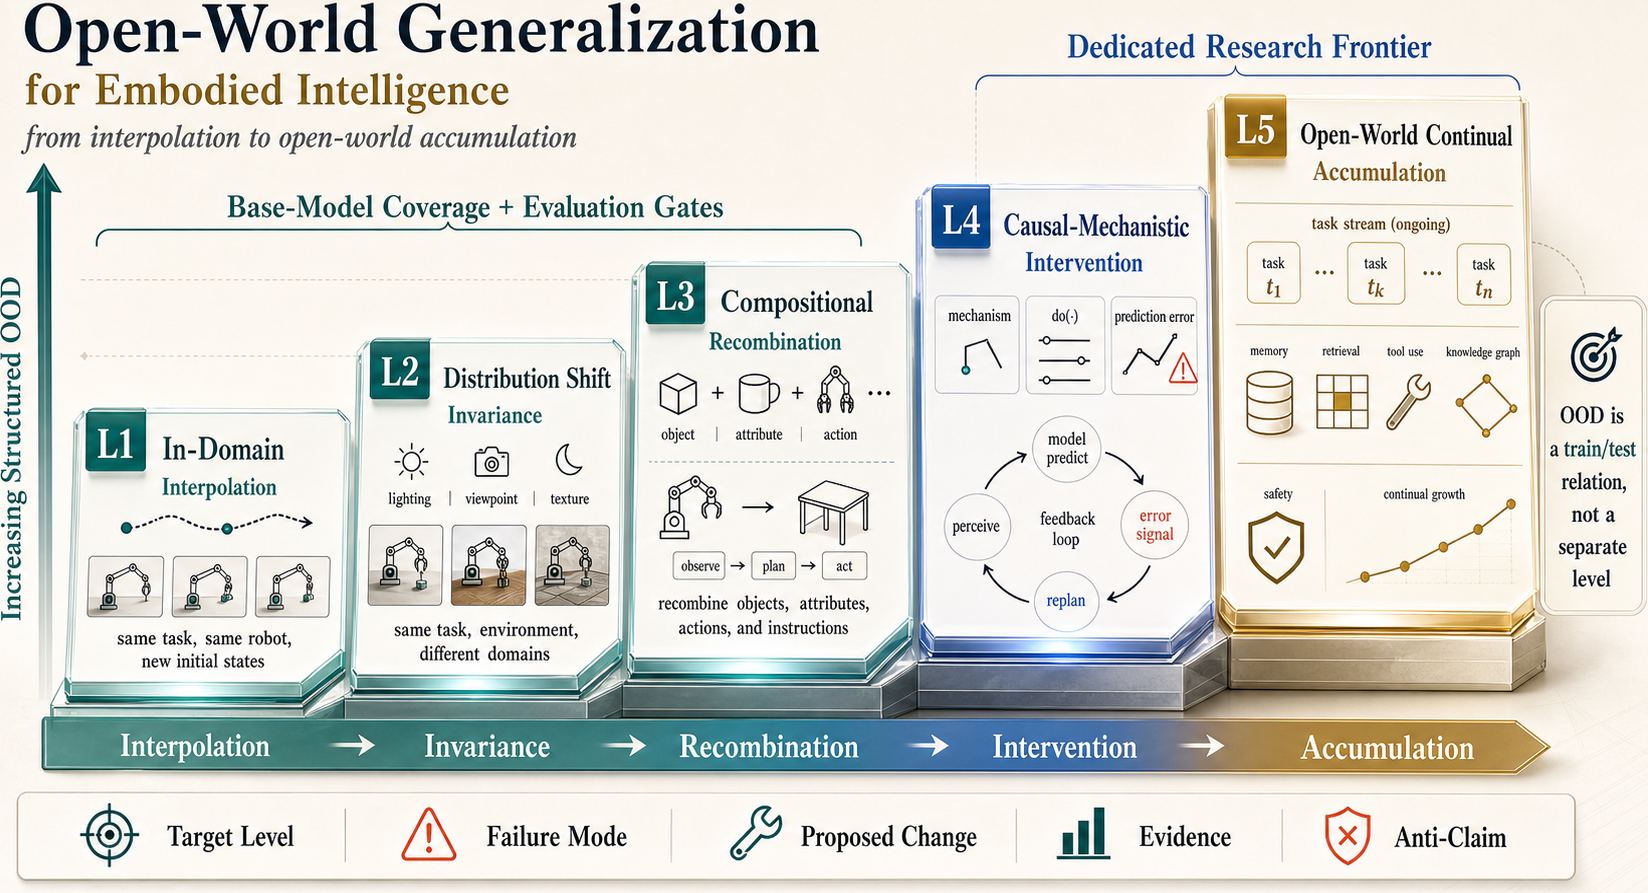
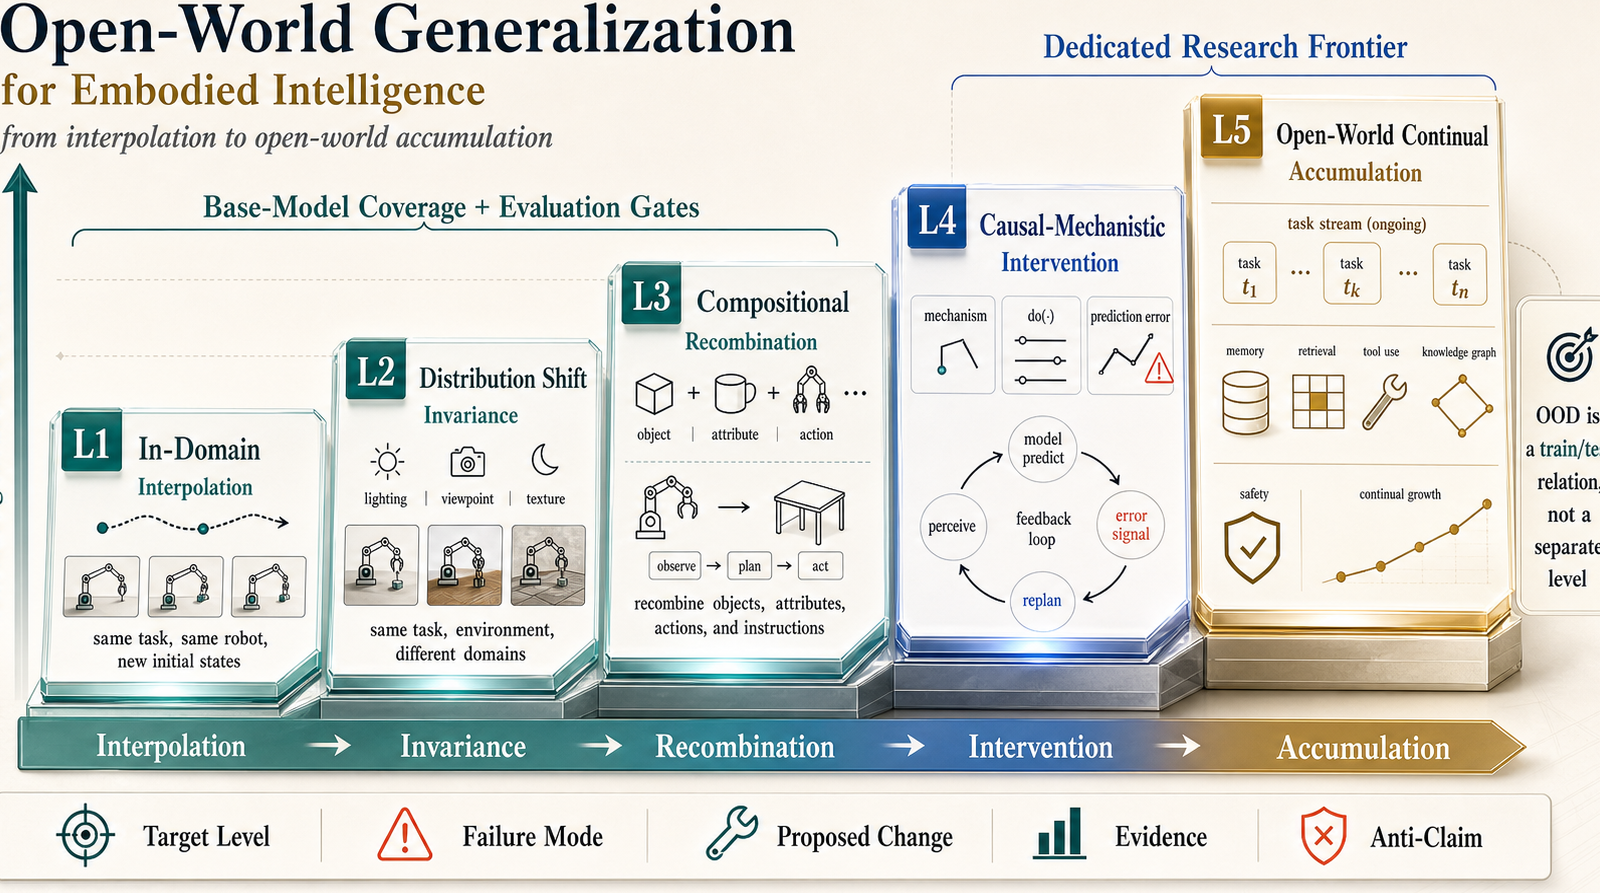
Refine CV publications and generalization figure

diff --git a/assets/css/accent-enhancements.css b/assets/css/accent-enhancements.css
@@ -246,23 +246,27 @@
 }
 
 .generalization-figure {
-  max-width: 980px;
-  margin: 0.45rem auto 0;
+  width: calc(100% + 0.8rem);
+  max-width: none;
+  margin: 0.55rem -0.4rem 0;
   text-align: center;
 }
 
 .generalization-figure img {
   display: block;
   width: 100%;
-  max-height: 420px;
+  height: auto;
+  max-height: none;
   object-fit: contain;
   border-radius: 0;
   box-shadow: none;
 }
 
 @media (max-width: 768px) {
-  .generalization-figure img {
-    max-height: 300px;
+  .generalization-figure {
+    width: calc(100% + 0.4rem);
+    margin-right: -0.2rem;
+    margin-left: -0.2rem;
   }
 }
 